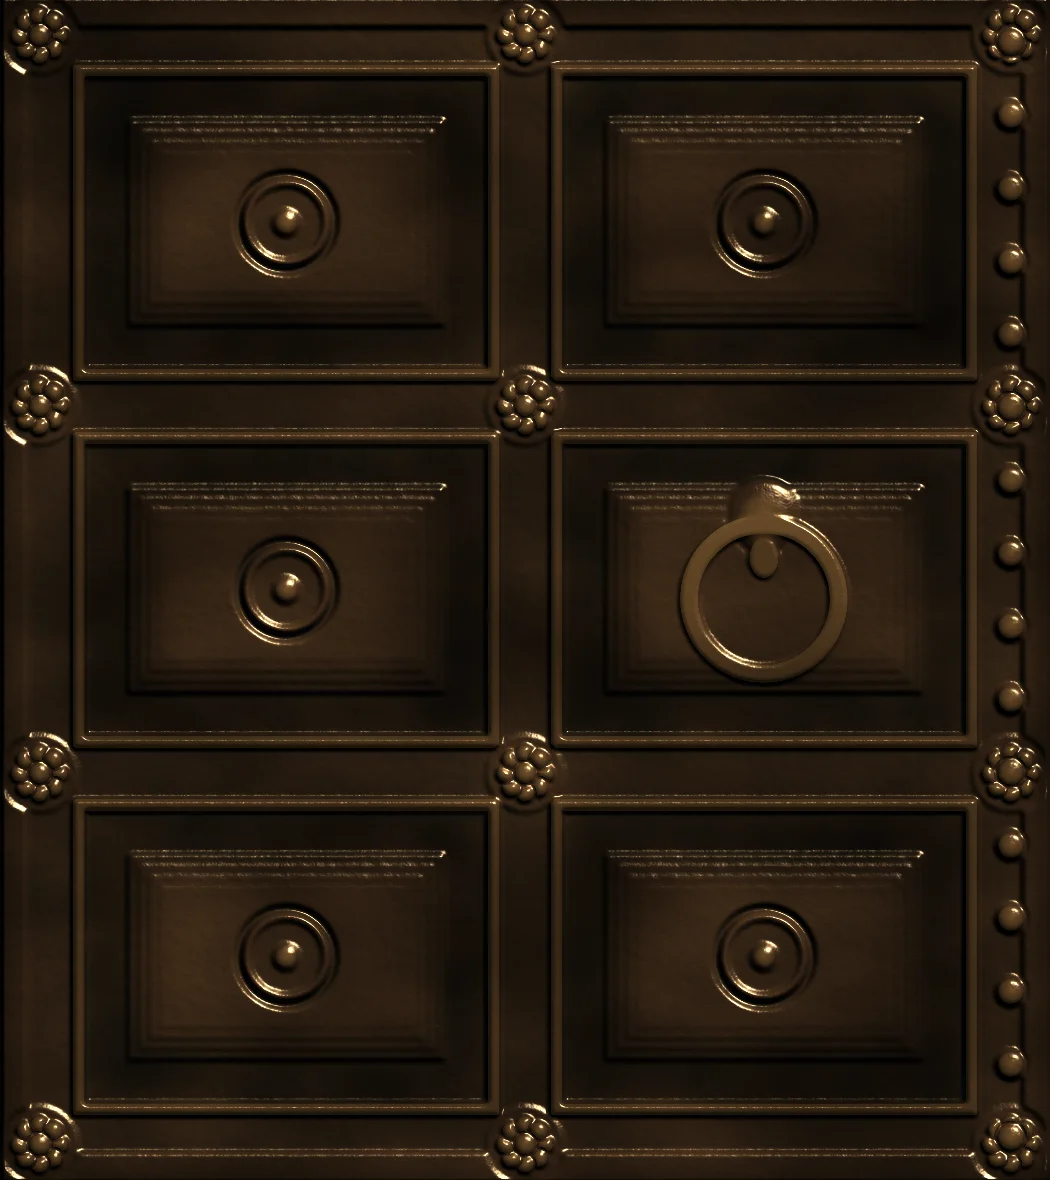
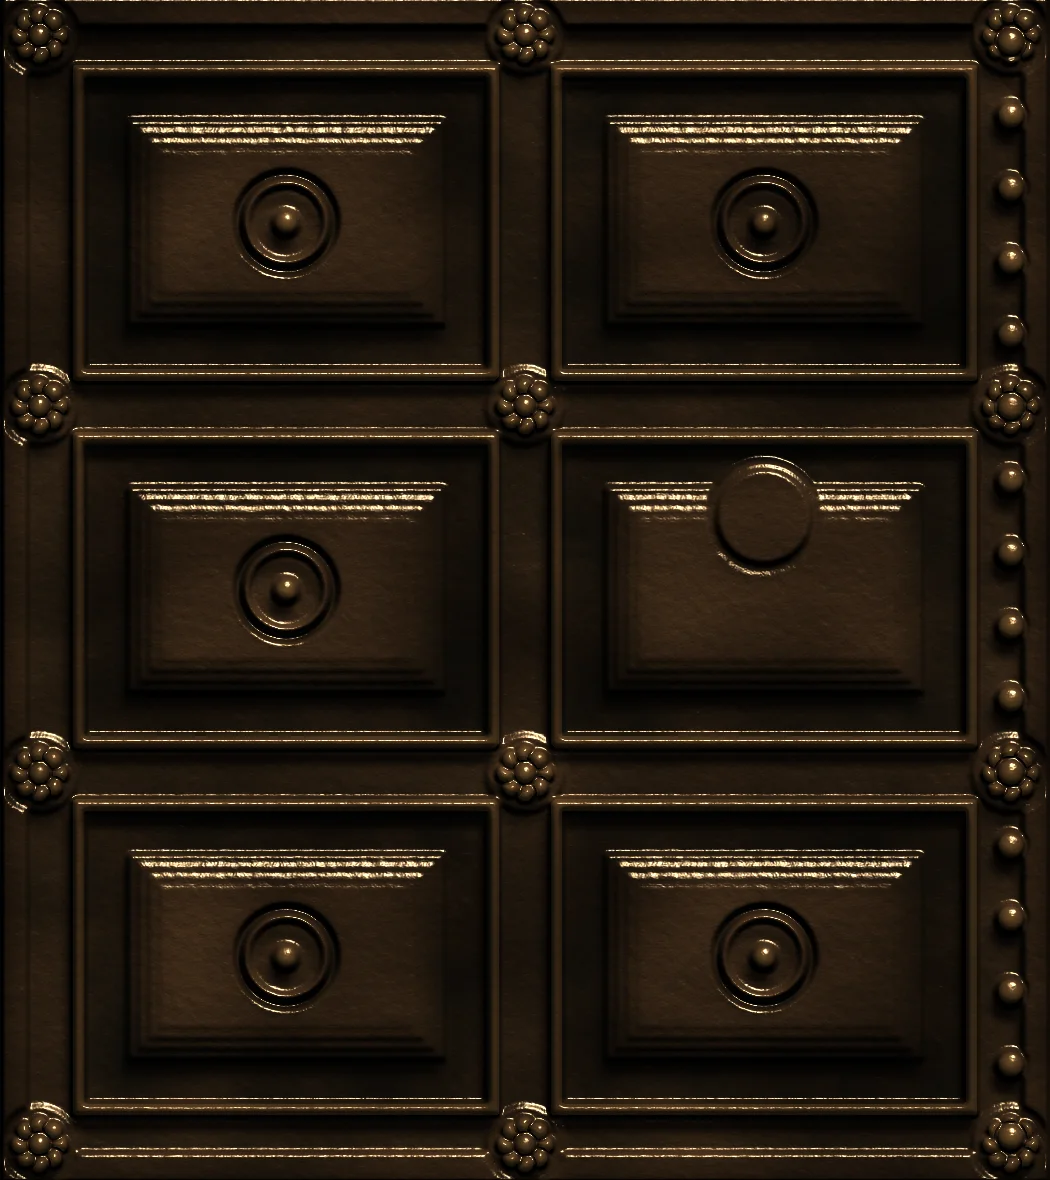
홈: 문 입체감 강화, 작품을 회전 전시대로(렉 해결)
- 문 렌더: 더 깊은 높이, 위에서 오는 빛의 드리운 그림자로 돌출·홈이 구분되게
- 문고리를 따로 렌더(scripts/render-knocker.py)해 3D 공간에서 문 앞으로 띄움, 문 두께(옆면) 추가
- 작품: 원기둥 둘레를 한 방향으로 도는 회전 전시대. JS 매 프레임 계산을 없애고 CSS(GPU) 애니메이션으로

Claude-Session: https://claude.ai/code/session_018w8t3v375K9swBfaEyu5kK

diff --git a/src/styles/GlobalStyles.tsx b/src/styles/GlobalStyles.tsx
@@ -206,14 +206,19 @@ const styles = css`
   .gate-room { position: absolute; inset: 0; overflow-y: auto; display: flex; flex-direction: column; justify-content: center; gap: 12px; padding: 24px 0; color: ${r.text};
     background: radial-gradient(ellipse 60% 45% at 50% 0%, ${r.spot}, transparent 75%), radial-gradient(ellipse 50% 25% at 50% 100%, rgba(255, 236, 200, 0.05), transparent 70%); }
 
-  /* 휘어진 작품 벽(ArtworkCorridor가 각도를 계산) */
-  .corridor { height: 120px; overflow: hidden; perspective: 900px; perspective-origin: 50% 40%; flex-shrink: 0; }
-  @media (min-width: 900px) { .corridor { height: 180px; perspective: 1100px; } }
-  .corridor-track { display: flex; gap: 32px; width: max-content; height: 100%; transform-style: preserve-3d; will-change: transform; }
-  .corridor-item { margin: 0; height: 100%; flex-shrink: 0; will-change: transform; }
-  .corridor-item img { display: block; height: 100%; width: auto; box-shadow: 0 16px 26px -10px rgba(0, 0, 0, 0.85); }
+  /* 회전 전시대: 작품이 원기둥 둘레에 바깥을 보고 걸려 있고, 원기둥 전체가 한 방향으로 돈다(GPU 애니메이션).
+     --w: 작품 칸 너비, --r: 반지름(= (칸 너비+간격) / (2·tan(π/n))) */
+  .corridor { --w: 132px; --h: 104px; --r: 270px; height: 150px; flex-shrink: 0; perspective: 900px; perspective-origin: 50% 35%; overflow: visible; }
+  @media (min-width: 900px) { .corridor { --w: 230px; --h: 170px; --r: 490px; height: 230px; perspective: 1500px; } }
+  .carousel { position: relative; width: var(--w); height: var(--h); margin: 0 auto; transform-style: preserve-3d;
+    animation: carousel 90s linear infinite; }
+  @keyframes carousel { from { transform: translateZ(calc(var(--r) * -1)) rotateY(0deg); } to { transform: translateZ(calc(var(--r) * -1)) rotateY(-360deg); } }
+  .carousel-item { position: absolute; inset: 0; margin: 0; display: flex; align-items: center; justify-content: center; backface-visibility: hidden;
+    transform: rotateY(calc(360deg / var(--n) * var(--i))) translateZ(var(--r)); }
+  .carousel-item img { display: block; max-width: 100%; max-height: 100%; width: auto; height: auto; box-shadow: 0 16px 26px -10px rgba(0, 0, 0, 0.85); }
+  @media (prefers-reduced-motion: reduce) { .carousel { animation: none; transform: translateZ(calc(var(--r) * -1)); } }
 
-  .gate-form { position: relative; display: flex; flex-direction: column; gap: 14px; width: 100%; max-width: 520px; margin: 16px auto 0; padding: 0 52px; }
+  .gate-form { position: relative; display: flex; flex-direction: column; gap: 14px; width: 100%; max-width: 520px; margin: 16px auto 0; padding: 0 60px; }
   @media (min-width: 900px) { .gate-form { padding: 0 24px; margin-top: 28px; } }
   .gate-form .gate-label { font-family: ${theme.font.serif}; font-size: 19px; font-weight: 600; line-height: 1.45; color: ${r.text}; text-align: center; }
   @media (min-width: 900px) { .gate-form .gate-label { font-size: 26px; } }
@@ -231,21 +236,32 @@ const styles = css`
   .enter-btn:not(:disabled):hover .enter-arrow { transform: translateX(6px); }
   .gate-info { margin: 0; text-align: center; font-size: 13px; color: ${r.textMuted}; }
 
-  /* 청동 문짝: 높이맵에 조명을 계산해 구운 이미지(public/doors). 활짝 열린 채로 양옆에 서 있다. */
-  .door { position: absolute; top: 0; bottom: 0; width: 50%; z-index: 4; pointer-events: none;
-    background: #2A1F15 center / 100% 100% no-repeat; box-shadow: 0 0 0 1px rgba(0, 0, 0, 0.85); }
+  /* 청동 문짝: 높이맵에 조명·그림자를 계산해 구운 이미지(scripts/render-door.py → public/doors).
+     활짝 열린 채 양옆에 서 있고, 문 두께(옆면)와 문고리는 실제 3D 공간에 따로 놓여 입체감이 난다. */
+  .door { position: absolute; top: 0; bottom: 0; width: 50%; z-index: 4; pointer-events: none; transform-style: preserve-3d;
+    background: #2A1F15 center / 100% 100% no-repeat; --kx: 50%; --ky: 46.1%; --kw: 44.6%; }
   .door-left { left: 0; transform-origin: left center; transform: rotateY(80deg); background-image: url(/doors/left_tall.webp); }
   .door-right { right: 0; transform-origin: right center; transform: rotateY(-80deg); background-image: url(/doors/right_tall.webp); }
   @media (min-width: 900px) {
-    .door-left { background-image: url(/doors/left_wide.webp); transform: rotateY(74deg); }
-    .door-right { background-image: url(/doors/right_wide.webp); transform: rotateY(-74deg); }
+    .door-left { background-image: url(/doors/left_wide.webp); transform: rotateY(72deg); --kx: 72.75%; --ky: 43.81%; --kw: 22.6%; }
+    .door-right { background-image: url(/doors/right_wide.webp); transform: rotateY(-72deg); --kx: 27.25%; --ky: 43.81%; --kw: 22.6%; }
   }
-  /* 전시실 쪽에서 오는 빛: 안쪽 가장자리는 밝고, 바깥(경첩) 쪽과 위아래는 어둡다 */
-  .door::after { content: ''; position: absolute; inset: 0; pointer-events: none; }
-  .door-left::after { background: linear-gradient(to bottom, rgba(0, 0, 0, 0.5), transparent 25%, transparent 70%, rgba(0, 0, 0, 0.65)),
-    linear-gradient(to right, rgba(0, 0, 0, 0.6), rgba(0, 0, 0, 0.15) 55%, rgba(255, 214, 160, 0.10)); }
-  .door-right::after { background: linear-gradient(to bottom, rgba(0, 0, 0, 0.5), transparent 25%, transparent 70%, rgba(0, 0, 0, 0.65)),
-    linear-gradient(to left, rgba(0, 0, 0, 0.6), rgba(0, 0, 0, 0.15) 55%, rgba(255, 214, 160, 0.10)); }
+  /* 문 두께: 문틈 쪽 끝에 붙은 옆면 */
+  .door-edge { position: absolute; top: 0; bottom: 0; width: 34px;
+    background: linear-gradient(to bottom, #1A120B, #3A2A1B 30%, #2C2015 70%, #140E09); box-shadow: inset 0 0 0 1px rgba(0, 0, 0, 0.6); }
+  .door-left .door-edge { right: 0; transform-origin: right center; transform: rotateY(90deg); }
+  .door-right .door-edge { left: 0; transform-origin: left center; transform: rotateY(-90deg); }
+  @media (max-width: 899px) { .door-edge { width: 12px; } }
+  /* 문고리: 받침판 위에 떠서 걸린 링 */
+  .door-knocker { position: absolute; left: var(--kx); top: var(--ky); width: var(--kw); aspect-ratio: 1;
+    background: url(/doors/knocker.webp) center / contain no-repeat; transform: translate(-50%, -20%) translateZ(22px);
+    filter: drop-shadow(0 14px 8px rgba(0, 0, 0, 0.75)); }
+  /* 조명: 위아래는 어둡고 경첩 쪽은 그늘(그림 자체의 입체 그림자는 이미지에 구워져 있다) */
+  .door::after { content: ''; position: absolute; inset: 0; pointer-events: none; transform: translateZ(0.1px); }
+  .door-left::after { background: linear-gradient(to bottom, rgba(0, 0, 0, 0.45), transparent 22%, transparent 72%, rgba(0, 0, 0, 0.6)),
+    linear-gradient(to right, rgba(0, 0, 0, 0.45), transparent 45%); }
+  .door-right::after { background: linear-gradient(to bottom, rgba(0, 0, 0, 0.45), transparent 22%, transparent 72%, rgba(0, 0, 0, 0.6)),
+    linear-gradient(to left, rgba(0, 0, 0, 0.45), transparent 45%); }
 
   /* 입장: 조명이 어두워지며 전시실로 */
   body::after { content: ''; position: fixed; inset: 0; z-index: 1000; pointer-events: none; background: ${r.bg}; opacity: 0; transition: opacity 0.55s ease; }

diff --git a/src/components/ArtworkCorridor.tsx b/src/components/ArtworkCorridor.tsx
@@ -1,68 +1,30 @@
-import { useEffect, useRef, useState } from 'react';
+import { useState, type CSSProperties } from 'react';
 import { useQuery } from '@tanstack/react-query';
 import { artworkService } from '../services/artworkApi';
 import ArtworkImage from './ArtworkImage';
 
-const SPEED = 28; // px/초
-const CURVE = 38; // 화면 가장자리에서 작품이 돌아가는 각도(도)
+const COUNT = 12;
 
-// 입구 로비의 둥근 벽: 실제 소장 작품이 휘어진 벽을 따라 천천히 흘러간다.
-// 가운데 작품은 정면, 양옆은 벽이 감싸듯 안쪽으로 돈다. 장식이라 화면 읽기 프로그램에는 숨긴다.
+// 문 너머 회전 전시대: 실제 소장 작품이 원기둥 둘레에 걸려 한 방향으로 천천히 돈다.
+// 회전은 CSS 애니메이션(GPU)으로만 처리해 매 프레임 계산이 없다. 장식이라 화면 읽기 프로그램에는 숨긴다.
 export default function ArtworkCorridor() {
   // 들어올 때마다 다른 작품이 걸리도록 시작 위치를 바꾼다.
   const [offset] = useState(() => Math.floor(Math.random() * 400));
   const { data } = useQuery({
     queryKey: ['corridor', offset],
     queryFn: async () => {
-      const list = await artworkService.list({ limit: 12, offset });
-      return list.length >= 6 ? list : artworkService.list({ limit: 12 });
+      const list = await artworkService.list({ limit: COUNT, offset });
+      return list.length >= 6 ? list : artworkService.list({ limit: COUNT });
     },
     staleTime: Infinity,
   });
-  const wrapRef = useRef<HTMLDivElement>(null);
-  const trackRef = useRef<HTMLDivElement>(null);
-  const paused = useRef(false);
-
-  useEffect(() => {
-    const wrap = wrapRef.current;
-    const track = trackRef.current;
-    if (!wrap || !track || !data?.length) return;
-    const still = window.matchMedia('(prefers-reduced-motion: reduce)').matches;
-    let x = 0;
-    let last = performance.now();
-    let raf = 0;
-    const frame = (now: number) => {
-      const dt = Math.min(0.05, (now - last) / 1000);
-      last = now;
-      if (!still && !paused.current) {
-        x -= SPEED * dt;
-        const half = track.scrollWidth / 2;
-        if (half > 0 && -x >= half) x += half;
-      }
-      track.style.transform = `translate3d(${x}px, 0, 0)`;
-      const w = wrap.clientWidth;
-      for (const el of Array.from(track.children) as HTMLElement[]) {
-        const center = el.offsetLeft + el.offsetWidth / 2 + x;
-        const d = Math.max(-1.4, Math.min(1.4, (center - w / 2) / (w / 2)));
-        // 오목한 벽: 양옆 작품은 안쪽을 향해 돌고 조금 뒤로 물러난다.
-        el.style.transform = `rotateY(${-d * CURVE}deg) translateZ(${-Math.abs(d) * 60}px)`;
-        el.style.opacity = String(1 - Math.max(0, Math.abs(d) - 0.9) * 1.6);
-      }
-      raf = requestAnimationFrame(frame);
-    };
-    raf = requestAnimationFrame(frame);
-    return () => cancelAnimationFrame(raf);
-  }, [data]);
-
   if (!data || data.length === 0) return <div className="corridor placeholder" aria-hidden="true" />;
-  const row = [...data, ...data]; // 끊김 없이 이어지도록 두 번
   return (
-    <div className="corridor" aria-hidden="true" ref={wrapRef}
-      onMouseEnter={() => { paused.current = true; }} onMouseLeave={() => { paused.current = false; }}>
-      <div className="corridor-track" ref={trackRef}>
-        {row.map((art, i) => (
-          <figure className="corridor-item" key={`${art.id}-${i}`}>
-            <ArtworkImage artwork={art} />
+    <div className="corridor" aria-hidden="true">
+      <div className="carousel" style={{ '--n': data.length } as CSSProperties}>
+        {data.map((art, i) => (
+          <figure className="carousel-item" key={art.id} style={{ '--i': i } as CSSProperties}>
+            <ArtworkImage artwork={art} loading="eager" />
           </figure>
         ))}
       </div>

diff --git a/src/pages/HomePage.tsx b/src/pages/HomePage.tsx
@@ -108,8 +108,14 @@ export default function HomePage() {
               <p className="gate-info">입장 무료 · {isAuthenticated ? '하루 10회' : '하루 3회 (로그인 시 10회)'}</p>
             </form>
           </div>
-          <div className="door door-left" aria-hidden="true" />
-          <div className="door door-right" aria-hidden="true" />
+          <div className="door door-left" aria-hidden="true">
+            <span className="door-edge" />
+            <span className="door-knocker" />
+          </div>
+          <div className="door door-right" aria-hidden="true">
+            <span className="door-edge" />
+            <span className="door-knocker" />
+          </div>
         </div>
       </div>
     </section>

diff --git a/scripts/render-door.py b/scripts/render-door.py
@@ -1,5 +1,6 @@
 # 청동 문짝 높이맵(SVG) → SVG 조명 필터로 렌더 → PNG
 import sys
+KNOCK={}
 def leaf(W, H, cols, rows, mirror=False):
     m = 0.075*W            # 바깥 테
     g = 0.06*W             # 판넬 사이
@@ -49,9 +50,10 @@ def leaf(W, H, cols, rows, mirror=False):
             s += rosette(cx, cy, R)
     # 사자 받침 + 링 문고리 (문틈 쪽, 가운데 높이)
     kx, ky = KX, KY - KR*0.25
-    s.append(f"<circle cx='{kx}' cy='{ky-KR*0.55}' r='{KR*0.42}' fill='url(#boss)'/>")
-    s.append(f"<circle cx='{kx}' cy='{ky+KR*0.35}' r='{KR*0.82}' fill='none' stroke='url(#ring)' stroke-width='{KR*0.2}'/>")
-    s.append(f"<ellipse cx='{kx}' cy='{ky-KR*0.1}' rx='{KR*0.16}' ry='{KR*0.22}' fill='rgb(230,230,230)'/>")
+    # 받침판(문에 붙은 둥근 판)만 굽는다. 링과 사자 받침은 따로 떠 있는 3D 조각.
+    s.append(f"<circle cx='{kx}' cy='{ky-KR*0.55}' r='{KR*0.62}' fill='rgb(150,150,150)'/>")
+    s.append(f"<circle cx='{kx}' cy='{ky-KR*0.55}' r='{KR*0.52}' fill='rgb(200,200,200)'/>")
+    KNOCK.update(x=kx/W, y=(ky-KR*0.55)/H, r=KR/W)
     # 문틈 쪽 리벳 줄
     sx = W - m*0.5 if not mirror else m*0.5
     n = int(H/70)
@@ -61,6 +63,7 @@ def leaf(W, H, cols, rows, mirror=False):
     return "\n".join(s)
 
 def svg(W,H,cols,rows,mirror,az):
+    SHDX = f'{(-W/220 if not mirror else W/220):.1f}'
     return f"""<svg xmlns='http://www.w3.org/2000/svg' width='{W}' height='{H}' viewBox='0 0 {W} {H}'>
 <defs>
  <radialGradient id='boss'><stop offset='0' stop-color='#fff'/><stop offset='0.45' stop-color='#e8e8e8'/><stop offset='0.8' stop-color='#bbb'/><stop offset='1' stop-color='#888'/></radialGradient>
@@ -74,8 +77,8 @@ def svg(W,H,cols,rows,mirror,az):
   <feTurbulence type='fractalNoise' baseFrequency='0.09' numOctaves='2' seed='21' result='pit'/>
   <feComposite in='h1' in2='grain' operator='arithmetic' k2='1' k3='0.016' result='hg'/>
   <feComposite in='hg' in2='pit' operator='arithmetic' k2='1' k3='0.03' result='h'/>
-  <feDiffuseLighting in='h' surfaceScale='{W/90:.1f}' diffuseConstant='0.95' lighting-color='#ffffff' result='diff'><feDistantLight azimuth='{az}' elevation='42'/></feDiffuseLighting>
-  <feSpecularLighting in='h' surfaceScale='{W/90:.1f}' specularConstant='1.5' specularExponent='60' lighting-color='#ffdca6' result='spec'><feDistantLight azimuth='{az}' elevation='28'/></feSpecularLighting>
+  <feDiffuseLighting in='h' surfaceScale='{W/55:.1f}' diffuseConstant='0.95' lighting-color='#ffffff' result='diff'><feDistantLight azimuth='{az}' elevation='40'/></feDiffuseLighting>
+  <feSpecularLighting in='h' surfaceScale='{W/55:.1f}' specularConstant='1.5' specularExponent='60' lighting-color='#ffdca6' result='spec'><feDistantLight azimuth='{az}' elevation='28'/></feSpecularLighting>
   <feFlood flood-color='#4f361f' result='base'/>
   <feComposite in='base' in2='diff' operator='arithmetic' k1='1.25' result='lit'/>
   <!-- 녹 얼룩: 큰 무늬로 어둡고 탁하게 -->
@@ -93,7 +96,13 @@ def svg(W,H,cols,rows,mirror,az):
   <feColorMatrix in='h0' type='matrix' values='0 0 0 0 0.85  0 0 0 0 0.62  0 0 0 0 0.32  0 0 0 2.6 -2.05' result='wear'/>
   <feComposite in='wear' in2='grain' operator='arithmetic' k1='0' k2='0.55' k3='0' result='wear2'/>
   <feComposite in='wear2' in2='lit4' operator='over' result='lit5'/>
-  <feComposite in='lit5' in2='spec' operator='arithmetic' k2='1' k3='0.9' result='out'/>
+  <!-- 드리운 그림자: 위쪽에 더 높은 면이 있으면 그 아래는 어둡다(빛은 위에서) -->
+  <feOffset in='h1' dx='{SHDX}' dy='{W/70:.1f}' result='hoff'/>
+  <feComposite in='hoff' in2='h1' operator='arithmetic' k2='3.2' k3='-3.2' result='cast'/>
+  <feGaussianBlur in='cast' stdDeviation='{W/260:.1f}' result='castb'/>
+  <feColorMatrix in='castb' type='matrix' values='0 0 0 0 0  0 0 0 0 0  0 0 0 0 0  0 0 0 0.85 0' result='castc'/>
+  <feComposite in='castc' in2='lit5' operator='over' result='lit6'/>
+  <feComposite in='lit6' in2='spec' operator='arithmetic' k2='1' k3='0.95' result='out'/>
   <feComposite in='out' in2='SourceGraphic' operator='in'/>
  </filter>
 </defs>
@@ -102,3 +111,4 @@ def svg(W,H,cols,rows,mirror,az):
 import json
 cfg=json.loads(sys.argv[1])
 open(cfg['out'],'w').write(svg(cfg['W'],cfg['H'],cfg['cols'],cfg['rows'],cfg['mirror'],cfg['az']))
+print(json.dumps({k: round(v,4) for k,v in KNOCK.items()}))

diff --git a/scripts/render-knocker.py b/scripts/render-knocker.py
@@ -1,0 +1,19 @@
+
+import json, sys
+cfg=json.loads(sys.argv[1]); S=cfg['S']; az=cfg['az']
+FILTER = open('door.py').read().split("<filter id='bronze'")[1].split('</filter>')[0]
+FILTER = FILTER.split('>',1)[1]
+FILTER = FILTER.replace('{max(1.4,W/480):.1f}', str(S*0.022)).replace('{W/55:.1f}', str(S/10)).replace('{W/40:.1f}', str(S/18)).replace('{W/70:.1f}', str(S/60)).replace('{W/260:.1f}','1.2').replace('{SHDX}','0').replace('{az}', str(az))
+FILTER = FILTER.replace("<feComposite in='out' in2='SourceGraphic' operator='in'/>","<feComposite in='out' in2='SourceAlpha' operator='in'/>")
+R=S*0.25; cx=S/2
+shapes=f'''
+<circle cx='{cx}' cy='{S*0.2}' r='{S*0.11}' fill='url(#boss)'/>
+<ellipse cx='{cx}' cy='{S*0.31}' rx='{S*0.04}' ry='{S*0.06}' fill='rgb(230,230,230)'/>
+<circle cx='{cx}' cy='{S*0.6}' r='{R}' fill='none' stroke='#fff' stroke-width='{S*0.07}'/>
+'''
+svg=f'''<svg xmlns='http://www.w3.org/2000/svg' width='{S}' height='{S}' viewBox='0 0 {S} {S}'><defs>
+<radialGradient id='boss'><stop offset='0' stop-color='#fff'/><stop offset='0.45' stop-color='#e8e8e8'/><stop offset='0.8' stop-color='#bbb'/><stop offset='1' stop-color='#888'/></radialGradient>
+<linearGradient id='ring' x1='0' y1='0' x2='0' y2='1'><stop offset='0' stop-color='#fff'/><stop offset='1' stop-color='#ccc'/></linearGradient>
+<filter id='bronze' filterUnits='userSpaceOnUse' x='0' y='0' width='{S}' height='{S}' color-interpolation-filters='sRGB'>{FILTER}</filter></defs>
+<g filter='url(#bronze)'>{shapes}</g></svg>'''
+open(cfg['out'],'w').write(svg)
